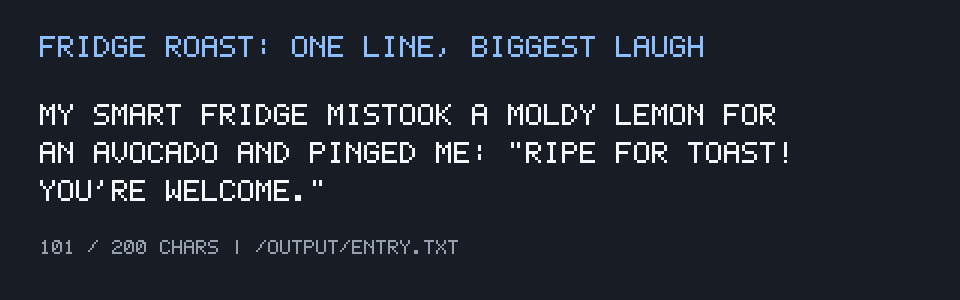
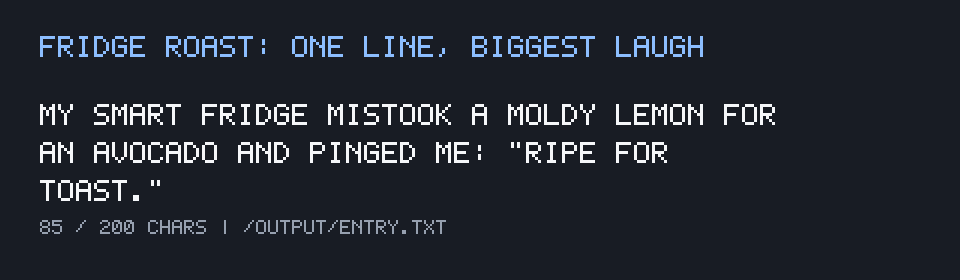
Cut You're welcome for razor-sharp 85-char Ripe for toast punchline

Changed region(s): [[0.0312, 0.3429, 0.8125, 0.7143], [0.0312, 0.1143, 0.75, 0.2], [0.0312, 0.7714, 0.5, 0.8571]]

diff --git a/main.ts b/main.ts
@@ -4,7 +4,7 @@ import { dirname } from "node:path";
 const OUTPUT_PATH = "/output/entry.txt";
 
 const ROAST =
-  'My smart fridge mistook a moldy lemon for an avocado and pinged me: "Ripe for toast! You\'re welcome."';
+  'My smart fridge mistook a moldy lemon for an avocado and pinged me: "Ripe for toast."';
 
 mkdirSync(dirname(OUTPUT_PATH), { recursive: true });
 writeFileSync(OUTPUT_PATH, `${ROAST}\n`, "utf8");
